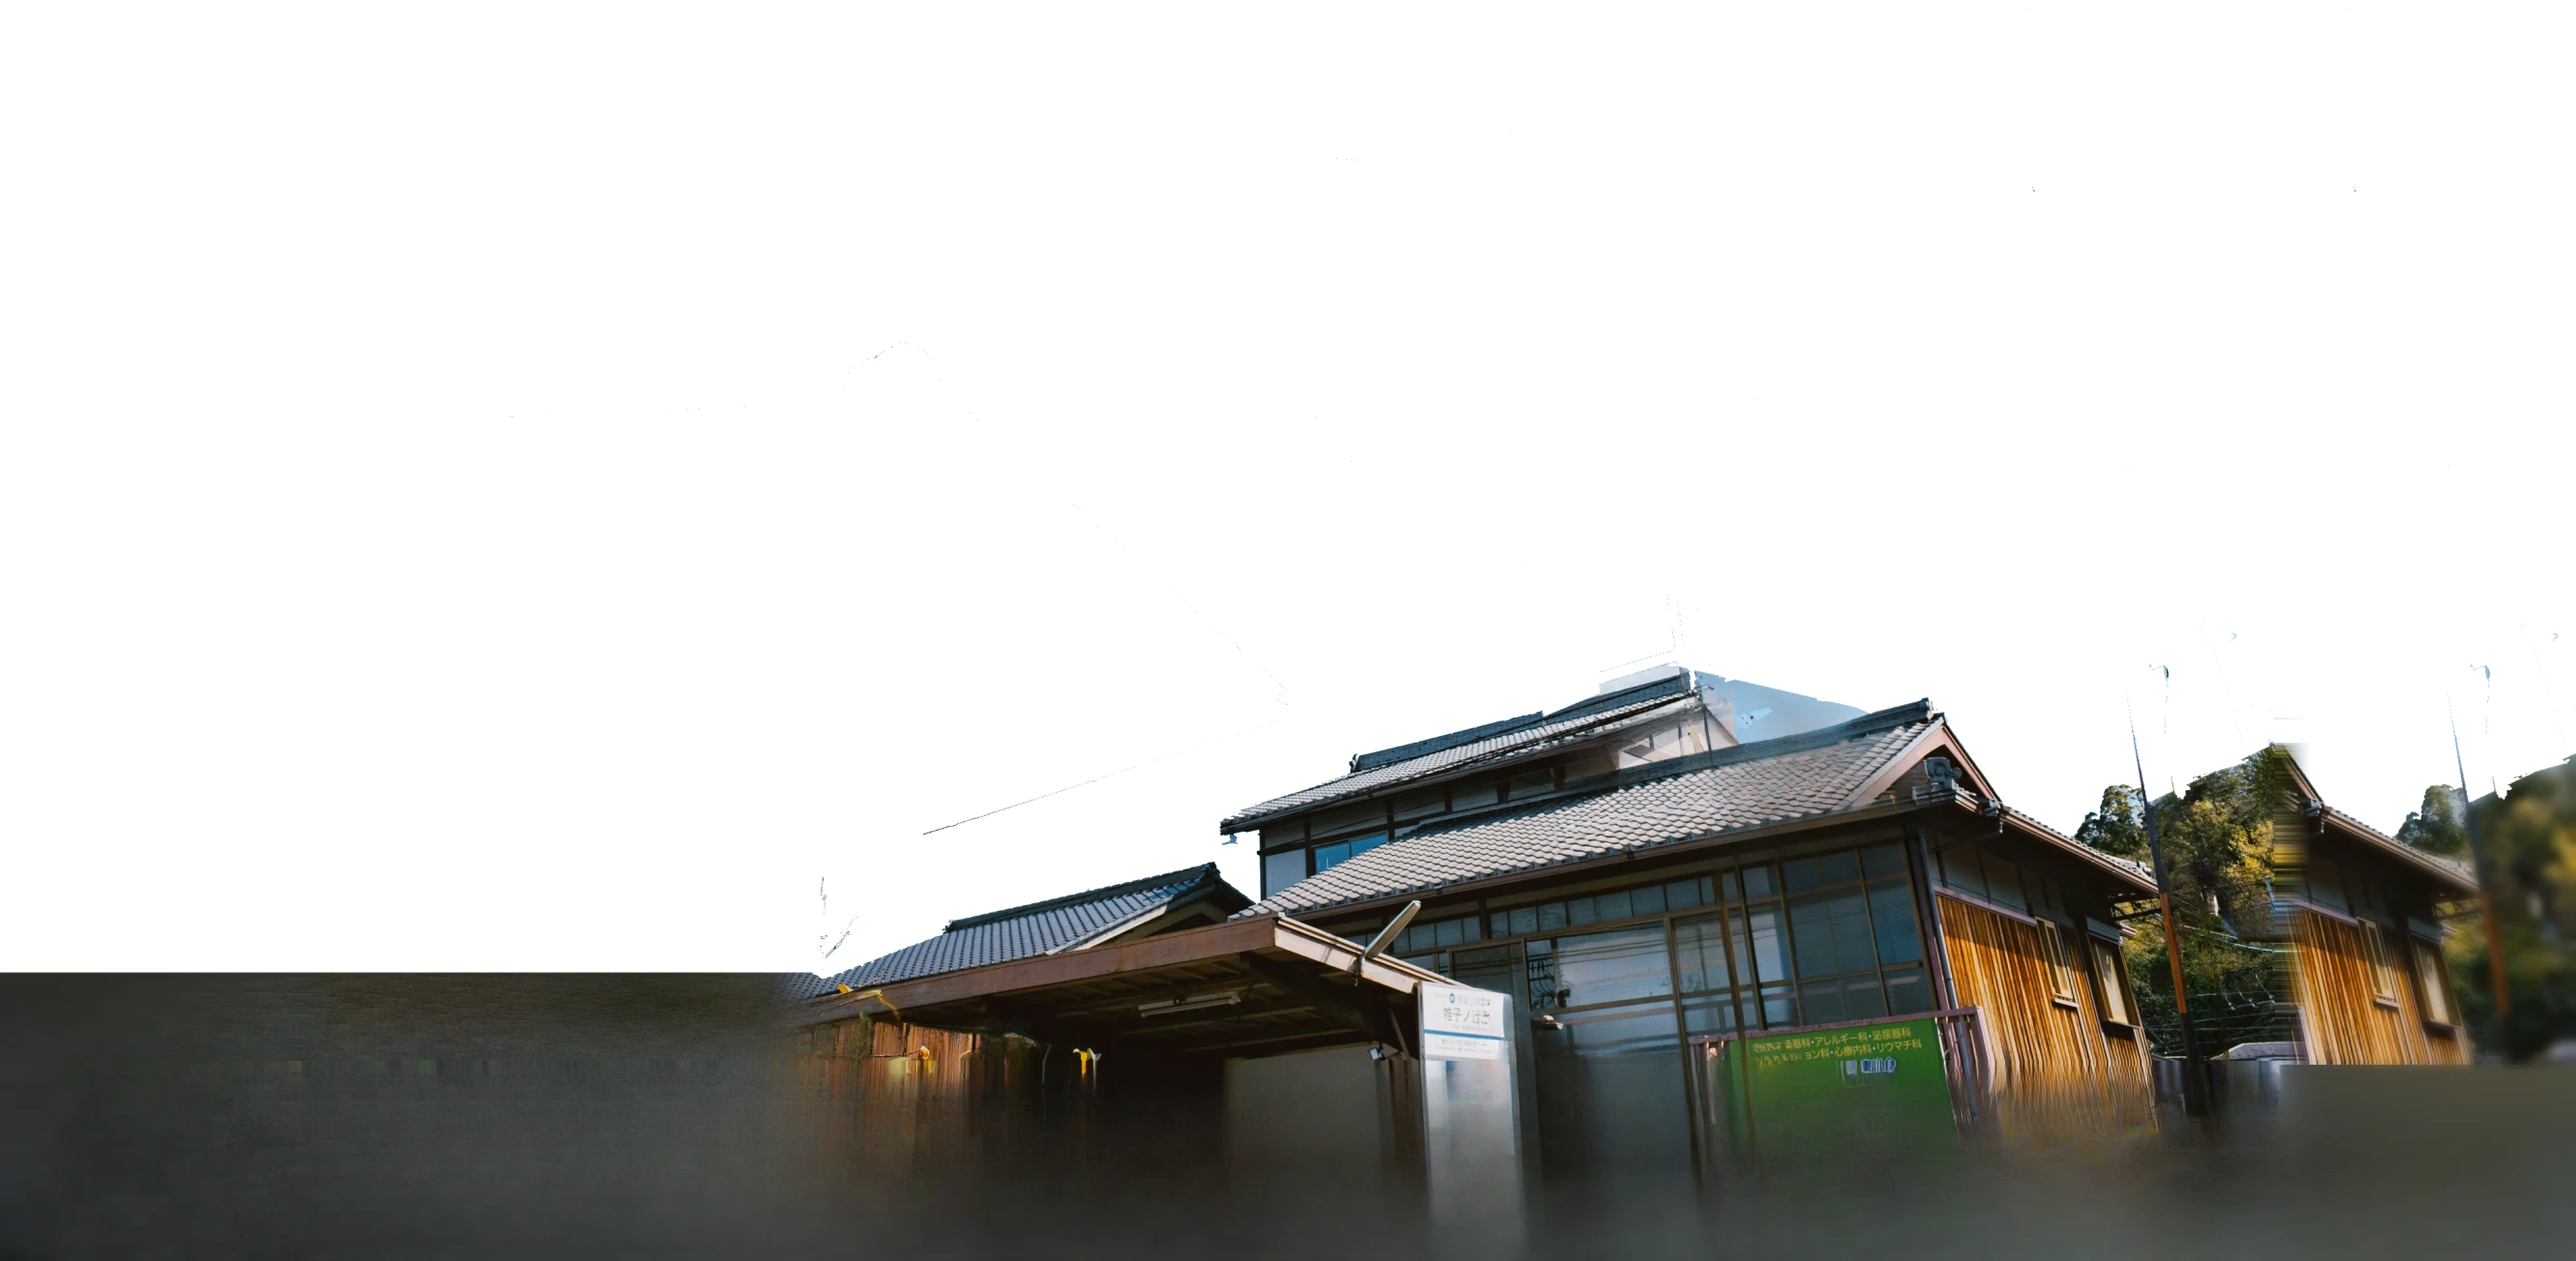
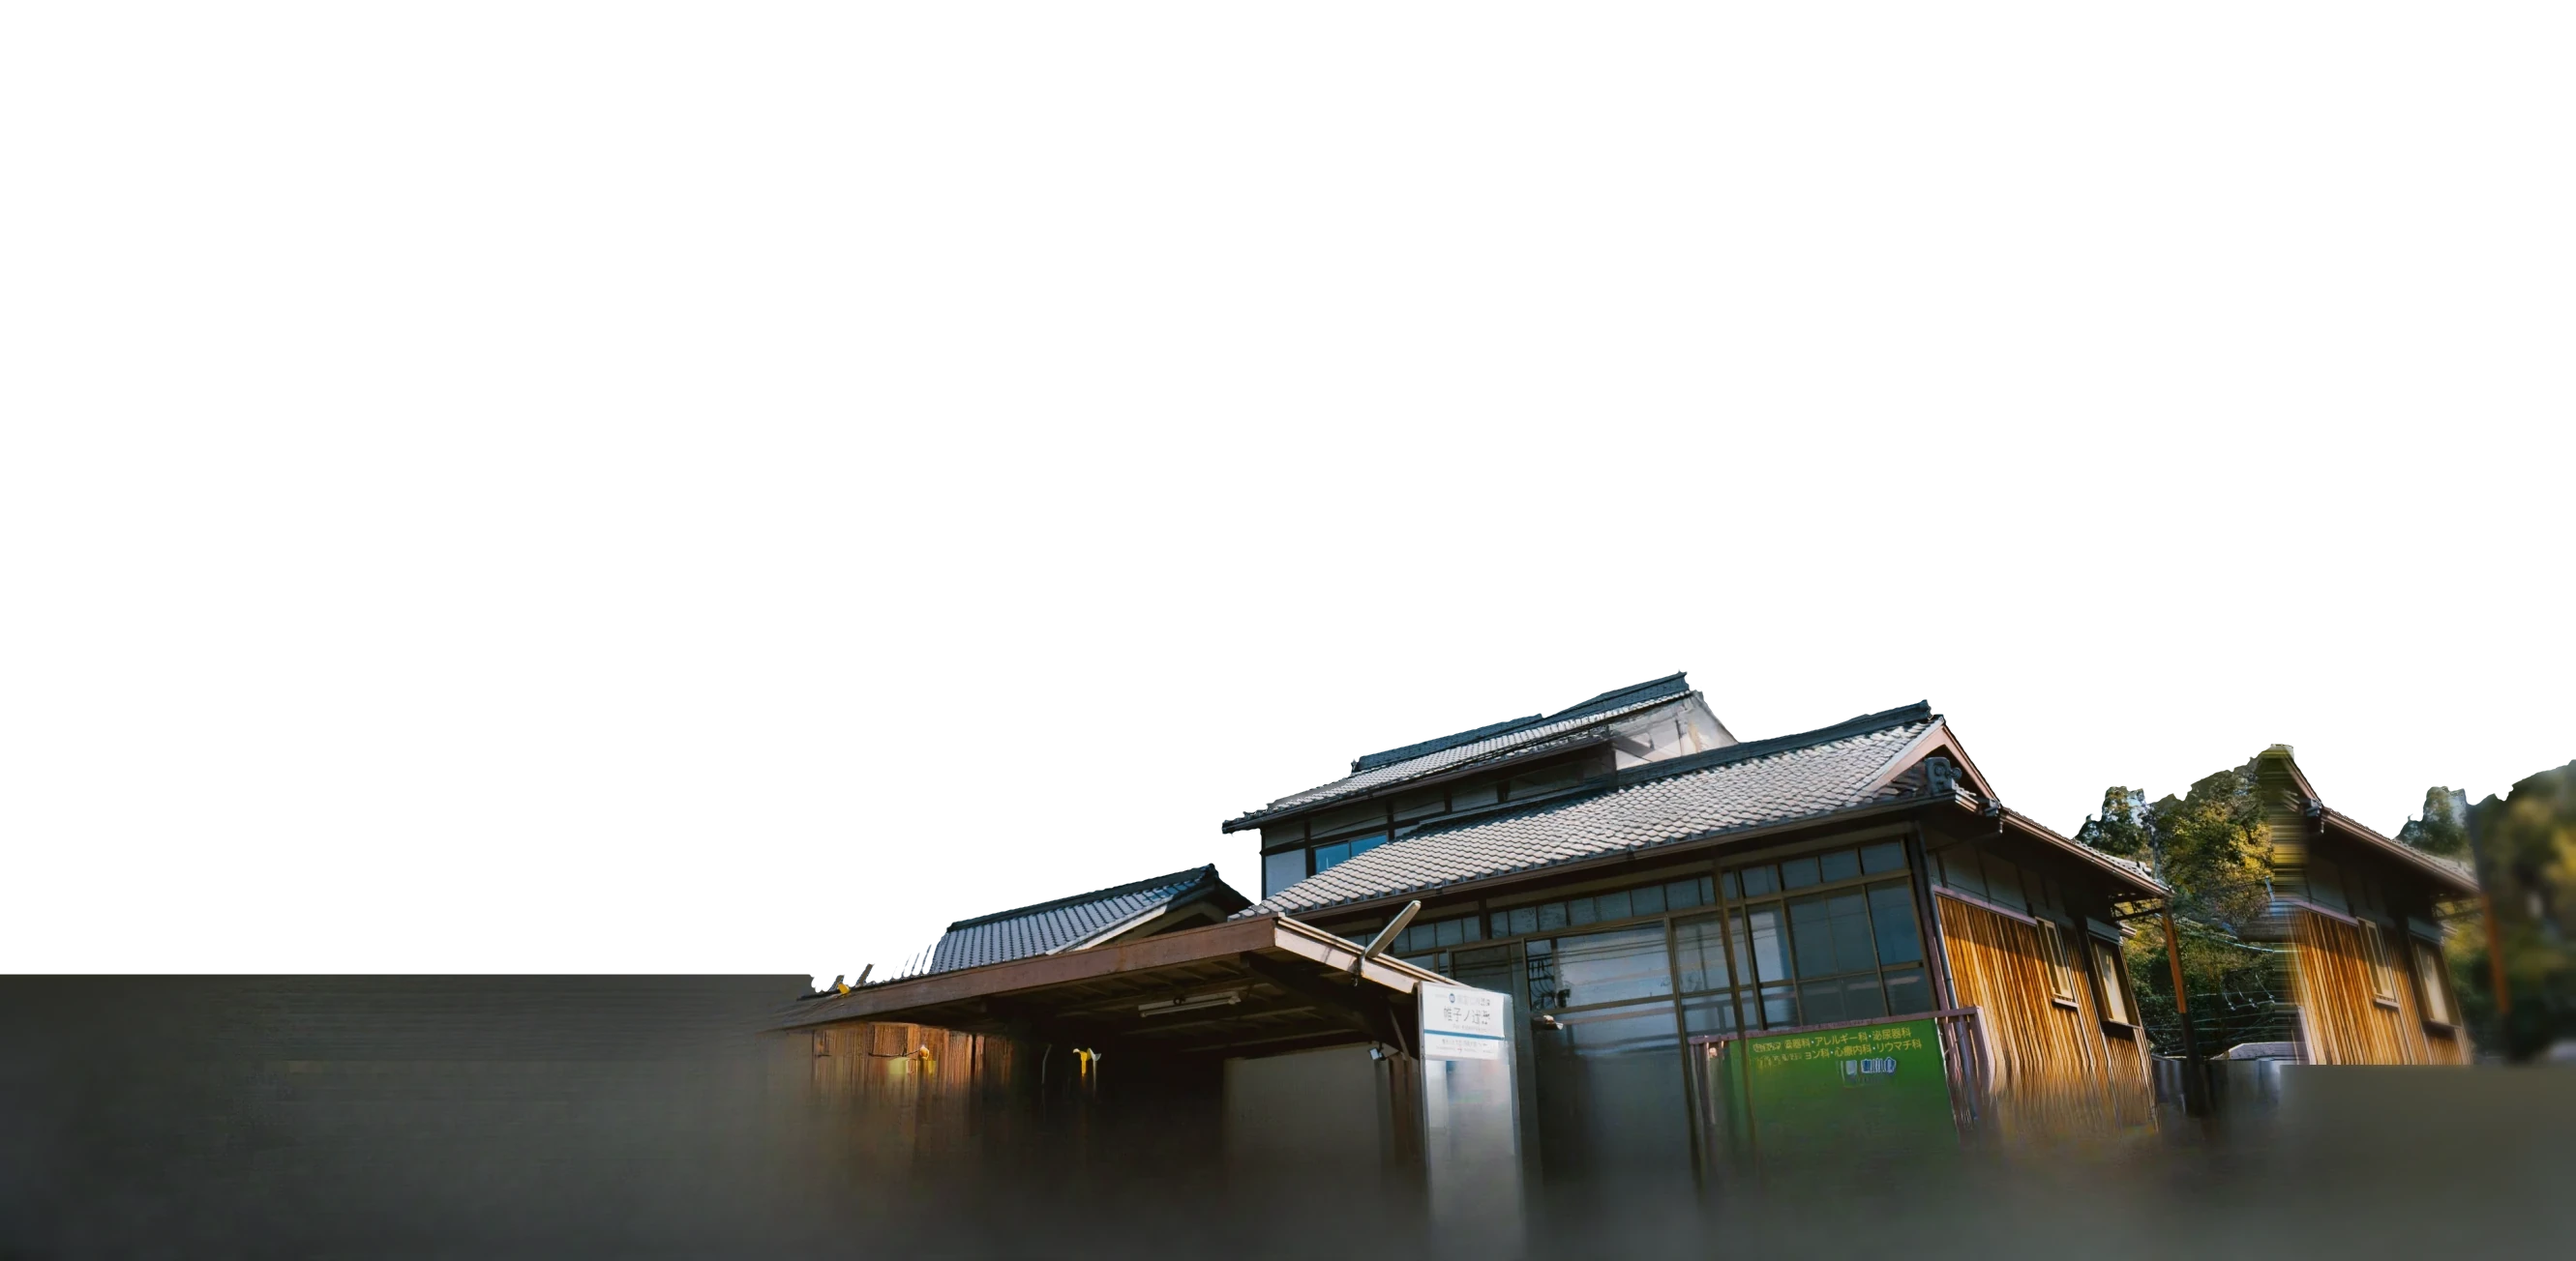
Lab: climb crossing round 3
Claude-Session: https://claude.ai/code/session_01RqENhngNCzDFmJWDZueXGV

diff --git a/tools/depth/bakes/crossing/townmatte.py b/tools/depth/bakes/crossing/townmatte.py
@@ -1,0 +1,209 @@
+"""Step 6: clean the top matte of the far houses (the town card, p1).
+
+    python3 -I tools/depth/bakes/crossing/townmatte.py <srcdir> <outdir>
+
+bake.py carried the town on behind the signal at the height of a skyline
+interpolated across the lamp heads, and LaMa filled what that hid with the
+photo's sky as context. So the card held a pale, flat wedge of old sky above
+the right-hand roofs, with a straight diagonal top edge (the bridged
+skyline), a pale block of sky over the upper ridge, and a milky haze over the
+tiles behind the pole and the lamps. Against the regraded cobalt and the
+cumulus card these read as a cut fragment of another sky riding on the roofs
+as soon as the cards part, and as a grey haze band on the roofline at rest.
+
+This step works on the published cards (run it last, from a copy of their
+output: it is not idempotent in place):
+
+  key       every pixel of the card above the roofline that has the sky's own
+            signature (blue over red and bright, or near-white and unsaturated,
+            and flat) and is joined to the open sky above the card is keyed
+            out; small specks left inside the keyed sky (and small islands of
+            card floating in the open sky: ghosts of wires and the signal's
+            strut) go with it.
+  edge      the matte is then eroded ERODE px and feathered FEATHER px along
+            every edge it has against the sky, on a smoothed signed distance
+            (no stair steps), so the card ends on the ridge tiles and finials
+            themselves, not on a rim of mixed sky. Colours near the new edge
+            that still have the sky's signature are carried in from inside.
+  refill    what the nearer cards (the signal, the mast) hide near the
+            roofline is inpainted again with LaMa, from the town's own pixels
+            only (the open and keyed sky is part of the hole, never context),
+            so the tiles and walls behind the lamps carry no sky haze.
+  mattes    the town's matte (plane 2 of the strip) gets the same alpha.
+
+Reads p1, p3..p6 .webp and mattes.png from <srcdir>; writes p1.webp and
+mattes.png to <outdir>. Set TOWNMATTE_WORK for previews (and the LaMa cache).
+"""
+import os
+import sys
+
+import cv2
+import numpy as np
+from PIL import Image
+
+HERE = os.path.dirname(os.path.abspath(__file__))
+sys.path.insert(0, HERE)
+sys.path.insert(0, os.path.join(HERE, "..", ".."))
+from common import dilate, pushpull, smoothstep  # noqa: E402
+
+SRC, OUT = sys.argv[1:3]
+if os.path.abspath(SRC) == os.path.abspath(OUT):
+    sys.exit("read from a copy of the cards: this step is not idempotent in place")
+WORK = os.environ.get("TOWNMATTE_WORK")
+EW, EH = 2048, 1356
+MATTE_W, MATTE_H = 512, 339
+TOWN_MATTE = 2  # the town's index in the matte strip (sky, cumulus, town, ...)
+# crop rects (photo uv) of the town and of the cards in front of it
+RECTS = {
+    "p1": [-0.1499, 0.18805, 1.1499, 1.14971],
+    "p3": [0.85742, 0.15708, 1.01025, 1.14971],
+    "p4": [-0.1499, 0.44248, 0.50928, 1.14971],
+    "p5": [0.50732, 0.15192, 0.83545, 1.14971],
+    "p6": [0.01416, 0.8326, 0.37988, 1.10029],
+}
+ERODE = 2.5  # px the matte is pulled in along the sky
+FEATHER = 1.5  # px of soft edge after that
+REFILL_DEPTH = 190  # px below the roofline the refill reaches
+LAMA_MODEL = os.path.join(os.environ.get("LAB_MODELS", "/tmp/claude-0/models"), "lama-carve", "lama_fp32.onnx")
+LW = np.array([0.2126, 0.7152, 0.0722], np.float32)
+
+
+def load(name, mode):
+    return np.asarray(Image.open(os.path.join(SRC, name)).convert(mode), np.float32) / 255
+
+
+def preview(name, rgb, a=None, box=None):
+    if not WORK:
+        return
+    v = rgb if a is None else rgb * a[..., None] + np.array([1, 0, 1], np.float32) * (1 - a[..., None])
+    if box:
+        x0, y0, x1, y1 = box
+        v = v[y0:y1, x0:x1]
+    cv2.imwrite(os.path.join(WORK, name), (np.clip(v[:, :, ::-1], 0, 1) * 255 + 0.5).astype(np.uint8))
+
+
+p1 = load("p1.webp", "RGBA")
+col, a0 = p1[..., :3].copy(), p1[..., 3].copy()
+H, W = a0.shape
+ox, oy = round(-RECTS["p1"][0] * EW), round(-RECTS["p1"][1] * EH)  # the frame's origin on the card
+ROI = (ox + 840, 300, min(W, ox + 2048), 900)  # previews: the roofline right of the old house
+
+# what the cards in front cover, on the town's canvas
+cov = np.zeros((H, W), np.float32)
+for k in ("p3", "p4", "p5", "p6"):
+    q = load(f"{k}.webp", "RGBA")[..., 3]
+    dx = (RECTS[k][0] - RECTS["p1"][0]) * EW
+    dy = (RECTS[k][1] - RECTS["p1"][1]) * EH
+    cov = np.maximum(cov, cv2.warpAffine(q, np.float32([[1, 0, dx], [0, 1, dy]]), (W, H)))
+
+# ---- key: the sky's signature, joined to the open sky above the card
+cs = cv2.GaussianBlur(col, (0, 0), 0.8)
+L = cs @ LW
+blue = cs[..., 2] - cs[..., 0]
+mx, mn = cs.max(2), cs.min(2)
+sat = (mx - mn) / np.maximum(mx, 1e-3)
+flat = np.sqrt(np.maximum(cv2.GaussianBlur(L * L, (0, 0), 1.5) - cv2.GaussianBlur(L, (0, 0), 1.5) ** 2, 0)) < 0.06
+skyish = ((blue > 0.08) & (L > 0.42) | (L > 0.68) & (sat < 0.25)) & flat
+open_sky = a0 < 0.5
+m = (skyish | open_sky).astype(np.uint8)
+n, cc = cv2.connectedComponents(m, connectivity=4)
+top = np.unique(cc[0][m[0] > 0])
+sky = np.isin(cc, top)
+# the card's body: what is left, without the specks inside the keyed sky
+# and the islands floating in the open sky (real card is joined to the
+# street below; the ghosts of wires and of the signal's strut are not)
+n, cc, st, _ = cv2.connectedComponentsWithStats((~sky).astype(np.uint8), 8)
+big = st[:, cv2.CC_STAT_AREA] >= 4000
+big[0] = False  # the open sky itself
+body = big[cc] & ~sky
+keyed = ~body & (a0 > 0.02)
+print("keyed", int((keyed & (a0 > 0.5)).sum()), "px of card (", int((keyed & ~open_sky).sum()), "solid )")
+
+# ---- edge: erode and feather along the sky on a smoothed signed distance
+bm = body.astype(np.uint8)
+din = cv2.distanceTransform(bm, cv2.DIST_L2, 5)
+dout = cv2.distanceTransform(1 - bm, cv2.DIST_L2, 5)
+sdf = cv2.GaussianBlur(din - dout, (0, 0), 1.0)
+ramp = smoothstep(ERODE - FEATHER / 2, ERODE + FEATHER / 2, sdf + 0.5)
+a1 = np.minimum(np.where(body, a0, 0), ramp).astype(np.float32)
+# the bake's own soft edge stays where it was already inside the new one
+a1 = np.where(din > ERODE + FEATHER + 2, a0, a1).astype(np.float32)
+print("alpha mass", round(float(a0.sum())), "->", round(float(a1.sum())))
+
+# colour near the new edge with the sky's colour (flat or not: a pale line of
+# mixed sky along a dark ridge cap is not flat) and brighter than the card
+# just inside it: carried in from inside
+rim = (din < ERODE + FEATHER + 4) & body
+deep = body & (din >= ERODE + FEATHER + 4) & ~skyish
+inner = pushpull(col, deep.astype(np.float32))
+tint = rim & ((blue > 0.06) & (L > 0.42) | (L > 0.6) & (sat < 0.3)) & (L > inner @ LW + 0.12)
+col = np.where(tint[..., None], inner, col)
+print("rim pixels recoloured", int(tint.sum()))
+
+# ---- refill: the tiles and walls hidden near the roofline, from the town only
+has = (a1 > 0.5).any(0)
+ridge = np.where(has, (a1 > 0.5).argmax(0), H)
+yy = np.arange(H)[:, None]
+near_top = (yy >= ridge[None, :] - 4) & (yy < ridge[None, :] + REFILL_DEPTH)
+inframe = np.zeros((H, W), bool)
+inframe[:, ox:ox + EW] = True
+hid = dilate(cov > 0.02, 3) & (a1 > 0.01) & near_top & inframe
+hole = hid | (dilate(hid, 24) & ~(a1 > 0.5))  # the sky beside it is hole too, never context
+print("refill hole", int(hid.sum()), "px")
+if hid.any() and os.path.exists(LAMA_MODEL):
+    import fill as F  # tools/depth/fill.py
+
+    ys, xs = np.nonzero(hole)
+    pad = 160
+    x0, x1 = max(0, xs.min() - pad), min(W, xs.max() + 1 + pad)
+    y0, y1 = max(0, ys.min() - pad), min(H, ys.max() + 1 + pad)
+    known = (a1 > 0.5) & ~hole
+    src = np.where(known[..., None], col, pushpull(col, known.astype(np.float32)))[y0:y1, x0:x1]
+    hc = hole[y0:y1, x0:x1]
+    cache = os.path.join(WORK, "refill.npz") if WORK else None
+    out = None
+    if cache and os.path.exists(cache):
+        z = np.load(cache)
+        if z["hole"].shape == hc.shape and np.array_equal(z["hole"], hc) and np.allclose(z["src"], src.astype(np.float16), atol=1e-3):
+            out = z["out"].astype(np.float32)
+            print("refill: cached")
+    if out is None:
+        lama = F.Lama(LAMA_MODEL, threads=3)
+        out = F.fill(src.astype(np.float32), hc, "lama", lama=lama, max_down=1.5, feather=4, log=print)
+        print("refill: LaMa", lama.calls, "calls", round(lama.secs), "s")
+        if cache:
+            np.savez_compressed(cache, hole=hc, src=src.astype(np.float16), out=out.astype(np.float16))
+    full = col.copy()
+    full[y0:y1, x0:x1] = out
+    # a short blend into the old fill below the reach of the refill
+    w_ = cv2.GaussianBlur(hid.astype(np.float32), (0, 0), 2.0)
+    w_ = np.maximum(w_, hid.astype(np.float32))
+    col = col * (1 - w_[..., None]) + full * w_[..., None]
+elif hid.any():
+    print("refill: no LaMa model at", LAMA_MODEL, "- the old fill stays")
+
+preview("roi-before.png", p1[..., :3], a0, ROI)
+preview("roi-after.png", col, a1, ROI)
+if WORK:
+    v = col.copy()
+    v[keyed] = v[keyed] * 0.4 + np.array([0, 0.6, 0], np.float32)
+    v[hid] = v[hid] * 0.6 + np.array([0, 0, 0.4], np.float32)
+    preview("roi-key.png", v, None, ROI)
+
+# ---- write the card (same canvas and rect) and the town's matte
+rng = np.random.default_rng(1)
+dith = (rng.random((H, W, 3)) - rng.random((H, W, 3))) / 255
+changed = (np.abs(col - p1[..., :3]).max(2) > 1e-6)[..., None]
+rgb = np.where(changed, col + dith, p1[..., :3])
+q = np.clip(np.round(np.dstack([rgb, a1]) * 255), 0, 255).astype(np.uint8)
+Image.fromarray(q, "RGBA").save(os.path.join(OUT, "p1.webp"), quality=90, alpha_quality=100, method=6, exact=False)
+print("wrote p1.webp", os.path.getsize(os.path.join(OUT, "p1.webp")) // 1024, "KB")
+
+strip = np.asarray(Image.open(os.path.join(SRC, "mattes.png")).convert("L")).copy()
+frame = np.zeros((EH, EW), np.float32)
+fy0, fy1 = max(0, -oy), min(EH, H - oy)
+frame[fy0:fy1] = a1[fy0 + oy:fy1 + oy, ox:ox + EW]
+mt = cv2.resize(frame, (MATTE_W, MATTE_H), interpolation=cv2.INTER_AREA)
+strip[TOWN_MATTE * MATTE_H:(TOWN_MATTE + 1) * MATTE_H] = np.clip(np.round(mt * 255), 0, 255).astype(np.uint8)
+Image.fromarray(strip, "L").save(os.path.join(OUT, "mattes.png"), optimize=True)
+print("wrote mattes.png")

diff --git a/tools/depth/bakes/crossing/bake.py b/tools/depth/bakes/crossing/bake.py
@@ -38,7 +38,10 @@ Then cumulus.py re-plates the sky with real cumulus on a card of its own
 (clouds.webp) and rewrites p0.webp, photo.webp and mattes.png to match, and
 wires.py redraws p2.webp with every wire as one whole catenary, and
 crossbuck.py takes the pale hood out from behind the crossbuck head on
-p5.webp (and photo.webp, mattes.png) and rebuilds the pole cap's outline.
+p5.webp (and photo.webp, mattes.png) and rebuilds the pole cap's outline,
+and townmatte.py keys the old sky out of the town card's top (p1.webp and
+its matte), ends it on the ridge tiles and refills what the signal hides
+there from the town alone.
 """
 import sys
 import os
